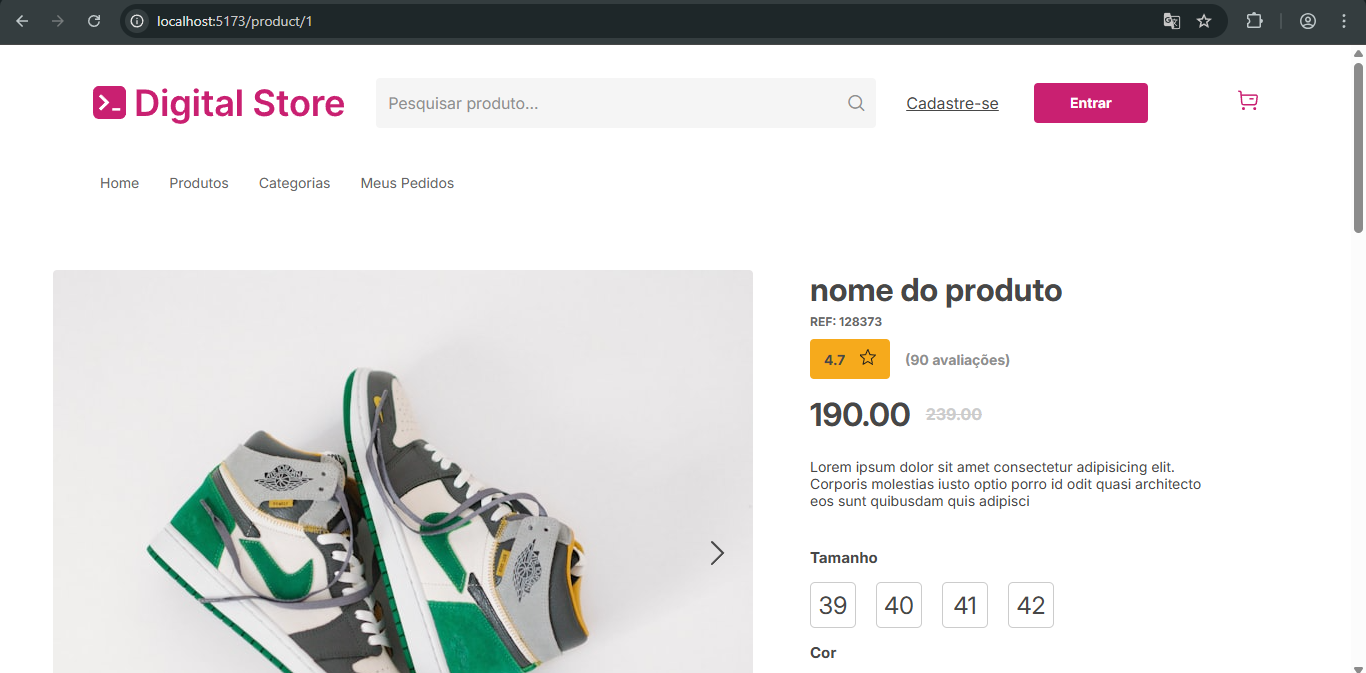
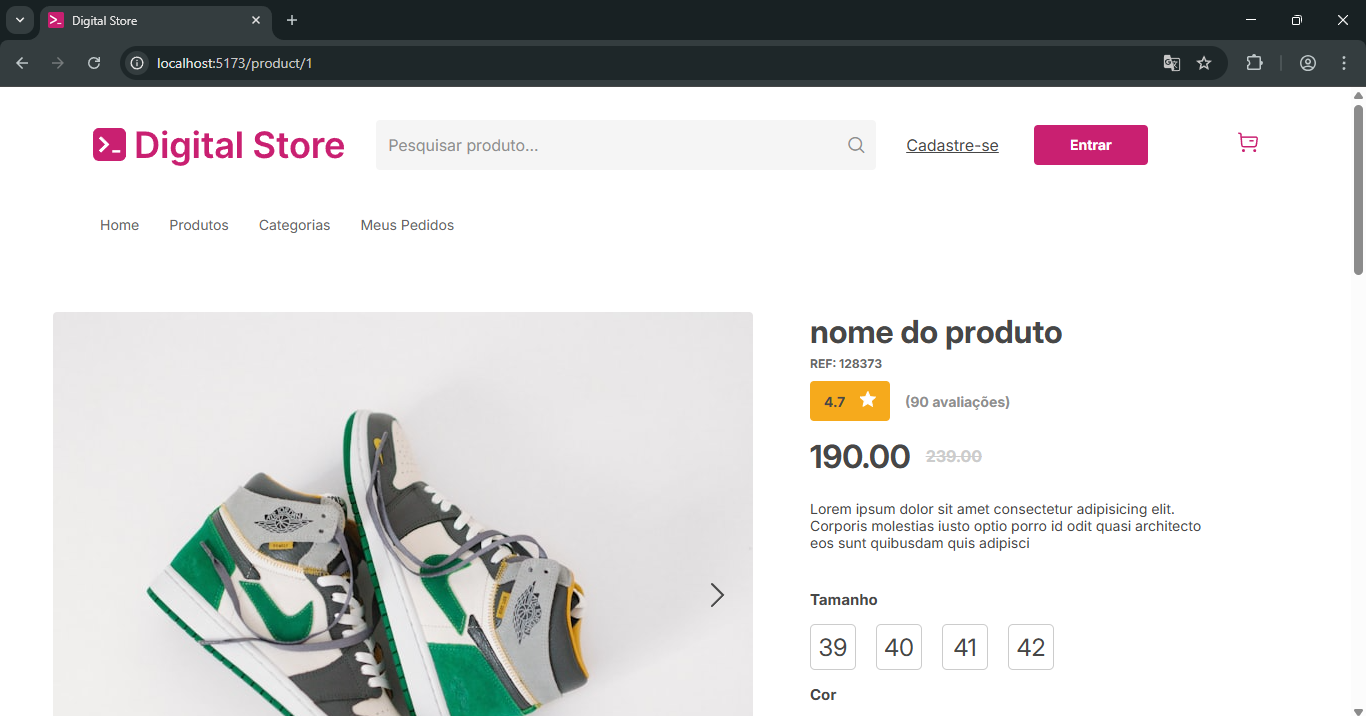
Update: Gallery (useContext)
Gallery: ajustado para desktop e mobile.

diff --git a/src/components/Gallery.jsx b/src/components/Gallery.jsx
@@ -1,10 +1,13 @@
 import "../styles/gallery.css"
 import arrowRight from "../assets/arrow-right.svg";
 import arrowLeft from "../assets/arrow-left.svg";
-import { useEffect, useState } from "react";
+import { useEffect, useState, useContext } from "react";
+import { Context } from "../context/MenuContext";
 
 export default function Gallery ({width, height, radius, showThumbs,
 images}) {
+    const { tamanhoTela } = useContext(Context);
+
     /* Variável de estado para guardar o index da array "images"
        para alterar a imagem mostrada */
     const [estado, setEstado] = useState(0);
@@ -59,8 +62,8 @@ images}) {
         <div className="containerGallery">
             <div className="galleryOne">
                 <img src={image.src} alt={"Imagem Galeria"} className="imgGallery"
-                style={{width: width, height: height, borderRadius: radius}}/>
-                
+                style={tamanhoTela > 1000 ? {width: width + "px", height: height + "px", borderRadius: radius} :
+                {width: "640px", height: "303px", borderRadius: radius}}/>
                 
                 {estado > 0 &&
                     <div className="arrowLeft" onClick={handleClickLeft}

diff --git a/src/components/Header.jsx b/src/components/Header.jsx
@@ -4,23 +4,17 @@ import "../styles/Header.css";
 
 import HeaderFull from "./HeaderFull";
 import HeaderMobile from "./HeaderMobile";
-import { useState } from "react";
+import { useContext } from "react";
+import { Context } from "../context/MenuContext";
 
 const Header = () => {
-    // InnerWidth: Retorna o tamanho atual da tela
-    const [estado, setEstado] = useState(innerWidth);
-        
-    // Monitora se o tamanho da tela mudou
-    window.addEventListener("resize", () => {
-    // Altera o estado caso o tamanho mude
-    setEstado(innerWidth);
-    });
+    const { tamanhoTela } = useContext(Context);
 
     return (
         <>
             {/* Teste de qual compon. renderizar */}
             {
-                estado > 1000 ?
+                tamanhoTela > 1000 ?
                 <HeaderFull />
                 :
                 <HeaderMobile />

diff --git a/src/context/MenuContext.jsx b/src/context/MenuContext.jsx
@@ -6,13 +6,22 @@ import { createContext, useState } from "react";
 export const Context = createContext();
 
 export const MenuContext = ({ children }) => {
+        // InnerWidth: Retorna o tamanho atual da tela
+    const [tamanhoTela, setTamanhoTela] = useState(innerWidth);
+        
+    // Monitora se o tamanho da tela mudou
+    window.addEventListener("resize", () => {
+    // Altera o estado caso o tamanho mude
+    setTamanhoTela(innerWidth);
+    });
+
     // estado visível para todos os children
     // usada para abrir e fechar modal
     const [modal, setModal] = useState(false);
 
     return (
         <>
-            <Context.Provider value={{ modal, setModal }}>
+            <Context.Provider value={{ tamanhoTela, setTamanhoTela, modal, setModal }}>
                 {children}
             </Context.Provider>
         </>

diff --git a/src/pages/Layout.jsx b/src/pages/Layout.jsx
@@ -4,8 +4,8 @@ import Footer from "../components/Footer";
 import Header from "../components/Header";
 
 import ModalMenuMobile from "../components/ModalMenuMobile";
-import { Context } from "../context/MenuContext";
 import { useContext } from "react";
+import { Context } from "../context/MenuContext";
 
 const Layout = ({ children }) => {
     const { modal } = useContext(Context);

diff --git a/src/styles/gallery.css b/src/styles/gallery.css
@@ -82,14 +82,3 @@
 .divMiniatura > ul > li {
     list-style: none;
 }
-
-@media screen and (max-width: 700px) {
-    .containerGallery{
-        width: 96vw;
-    }
-
-    .imgGallery {
-        width: 640px;
-        height: 303px;
-    }
-}

diff --git a/src/styles/footer.css b/src/styles/footer.css
@@ -1,3 +1,4 @@
+
 /* footer.css */
 
 footer {

diff --git a/README.md b/README.md
@@ -1,6 +1,6 @@
 # PROJETO FINAL FRONT END GERAÇÃO TECH - 2025
 
-O objetivo do projeto é criar um um aplicativo Web simulando uma loja virtual, para venda de produtos, como tênis de vários modelos. Utiliza a biblioteca `React`, com auxílio da ferramenta `Vite`, com a linguagem JavaScript.
+O objetivo do projeto é criar um um aplicativo Web simulando uma loja virtual, para venda de produtos, como tênis de vários modelos. Utiliza a biblioteca `React`, com auxílio da ferramenta `Vite`, com a linguagem `JavaScript`.
 
 A criação faz parte do projeto final Frontend do curso de **Desenvolvedor Web Full Stack - Online - 2.0 - 2025**, da Geração Tech, IEL.
 
@@ -38,23 +38,14 @@ O aplicativo busca ter responsividade para a versão em telas menores.
 
 ## Estrutura de pastas
 
-A estrutura de pastas segue o modelo de organização recomendado pelo projeto `Digital Store`, acrescentando algumas pastas e arquivos, que são necessários para o funcionamento do aplicativo.
+A estrutura de pastas segue o modelo de organização recomendado pelo projeto `Digital Store`, acrescentando algumas pastas e arquivos, que são necessárias para o funcionamento do aplicativo.
 
-- Os arquivos `.gitignore`, `eslint.config.js`, `package-lock.json`, `package.json`, `vite.config.js`, são para o funcionamento do aplicativo, e instalados quando a framework `Vite` é instalado.
+- Os arquivos `.gitignore`, `eslint.config.js`, `package-lock.json`, `package.json`, `vite.config.js`, são para o funcionamento do aplicativo, e instalados quando a framework `Vite` é instalada.
 
 - O `index.html` é o arquivo principal, que vai receber todos os componentes criados. O `TODO.txt` contém lembretes utilizados para criação do projeto.
-A pasta `src` contém os arquivos `main.jsx`, que substitui o elemento que tem o ID 'root' no `index.html`, pelo componente `App.jsx`, e o `App.jsx`, é responsável pelas rotas do site. Além dos arquivos CSS de cada um.
+A pasta `src` contém os arquivos `main.jsx`, que substitui o elemento que tem o ID 'root' no `index.html`, pelo componente `App.jsx`. O `App.jsx`, é responsável pelas rotas do site. Contém também os arquivos CSS de cada um.
 
 - Na pasta `src`, também estão as principais pastas do projeto, como a pasta `components`, com os arquivos dos componentes React. A pasta `pages` armazena os arquivos relacionados às páginas do site. A pasta `service` tem o arquivo `index.js`, que serve para importar o `Axios`, que ajuda a montar o URL para o recebimento de dados das requisições do banco de dados de teste. Na pasta `styles` contém os arquivos CSS para estilos dos componentes. A pasta `assets` possui arquivos de imagen com extensão `.svg`.
-
-A estrutura de pastas segue o modelo de organização recomendado pelo projeto `Digital Store`, acrescentando algumas pastas e arquivos, que são necessários para o funcionamento do aplicativo.
-
-- Os arquivos `.gitignore`, `eslint.config.js`, `package-lock.json`, `package.json`, `vite.config.js`, são para o funcionamento do aplicativo, e instalados quando a framework `Vite` é instalado.
-
-- O `index.html` é o arquivo principal, que vai receber todos os componentes criados. O `TODO.txt` contém lembretes utilizados para criação do projeto.
-A pasta `src` contém os arquivos `main.jsx`, que substitui o elemento que tem o ID 'root' no `index.html`, pelo componente `App.jsx`, e o `App.jsx`, é responsável pelas rotas do site. Além dos arquivos CSS de cada um.
-
-- Na pasta `src`, também estão as principais pastas do projeto, como a pasta `components`, com os arquivos dos componentes React. A pasta `pages` armazena os arquivos relacionados às páginas do site. Na pasta `styles` contém os arquivos CSS para estilos dos componentes. A pasta `assets` possui arquivos de imagen com extensão `.svg`.
 
 - A pasta `data` possui os arquivos utilizados como um banco de dados para teste, para verificar se o aplicativo que serve como Front End consegue receber dados entregues por um servidor (que não está no escopo do projeto).
 
@@ -85,6 +76,8 @@ E na pasta `doc` estão as imagens usadas nesse `README.md`.
 |          |--- Logo.jsx
 |          |--- Lupa.jsx
 |          |--- MenuBar.jsx
+|          |--- MenuBarMobile.jsx
+|          |--- ModalMenuMobile.jsx
 |          |--- ProductCard.jsx
 |          |--- ProductListing.jsx
 |          |--- ProductOptions.jsx
@@ -98,13 +91,12 @@ E na pasta `doc` estão as imagens usadas nesse `README.md`.
 |          |--- dataProduct.json
 |          |--- dataProductListing.json
 |          |--- dataProductView.json
-|          |--- dataSection.json
 |--- |--- pages/
 |          |--- HomePage.jsx
 |          |--- Layout.jsx
 |          |--- NotFound.jsx
 |          |--- ProductListingPage.jsx
-|          |--- ProductView.jsx
+|          |--- ProductViewPage.jsx
 |--- |--- service/
 |          |--- index.js
 |--- |--- styles/
@@ -130,13 +122,12 @@ E na pasta `doc` estão as imagens usadas nesse `README.md`.
 |--- |--- index.css
 |--- |--- main.js
 |--- .gitignore
-|--- README.md
-|--- TODO.txt
 |--- eslint.config.js
-|--- App.js
 |--- index.html
 |--- package-lock.json
 |--- package.json
+|--- README.md
+|--- TODO.txt
 |--- vite.config.js
 ```
 </details>
